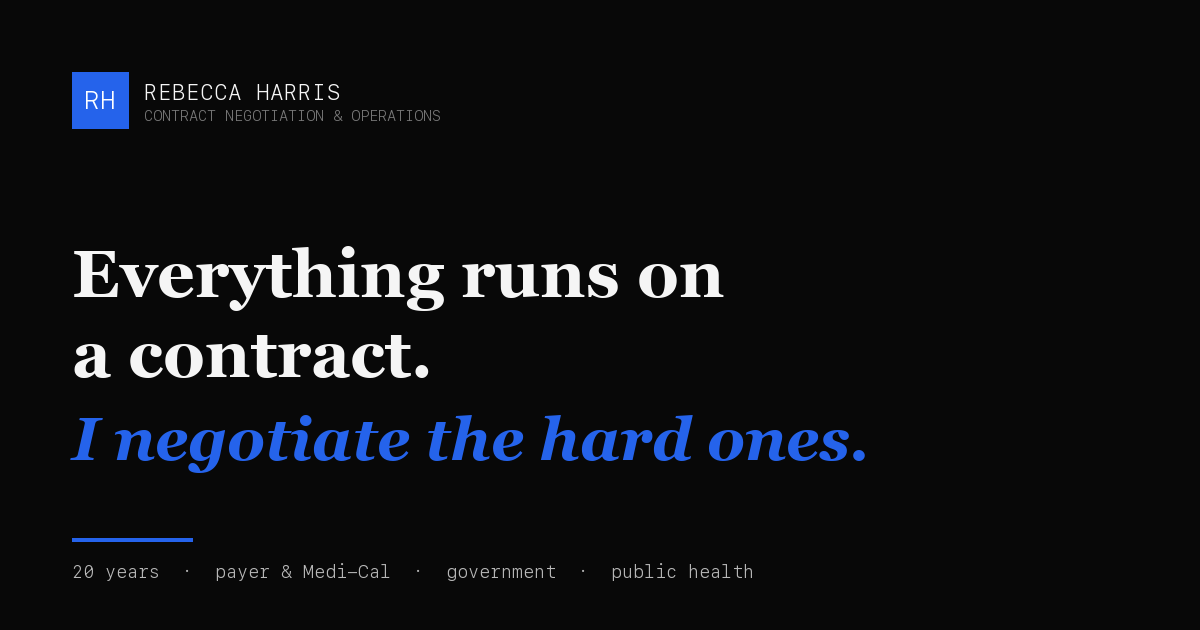
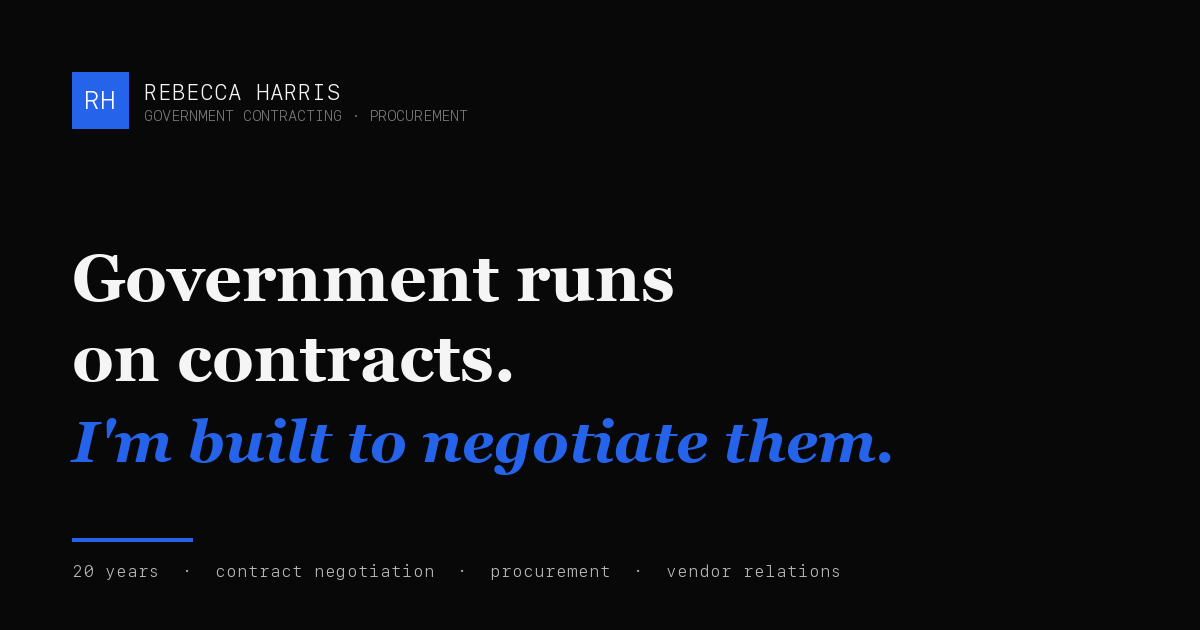
Retune: lead with consulting government contracting + procurement
Foreground Rebecca's go-forward strategy: a consulting government contractor
leveraging 20 years of contract negotiation into government contracting,
procurement, and vendor relations. Hero, title/meta/OG, pillars (Contract
negotiation / Procurement & vendor relations), services (government + procurement
now lead), and who-I-help reordered to put government and vendors first.
Healthcare-payer, credentialing, and public-health kept as supporting depth.

Honest: framed as bringing her contract-negotiation depth INTO government
contracting (not claiming prior government awards); track record unchanged.

diff --git a/index.html b/index.html
@@ -3,11 +3,11 @@
 <head>
 <meta charset="utf-8">
 <meta name="viewport" content="width=device-width, initial-scale=1, viewport-fit=cover">
-<title>Rebecca Harris — Contract Negotiation &amp; Operations</title>
-<meta name="description" content="Twenty years negotiating and running the contracts and operations that healthcare, government, and public-health programs depend on. Payer &amp; Medi-Cal contracting, government contracting, delegated credentialing, and public-health logistics.">
+<title>Rebecca Harris — Government Contracting, Procurement &amp; Negotiation</title>
+<meta name="description" content="A consulting government contractor built on twenty years of contract negotiation. Government contracting, procurement and vendor negotiation, healthcare-payer and Medi-Cal contracting, delegated credentialing, and public-health operations.">
 <meta name="author" content="Rebecca Harris">
-<meta property="og:title" content="Rebecca Harris — Contract Negotiation &amp; Operations">
-<meta property="og:description" content="Everything runs on a contract. Twenty years negotiating the hard ones — across healthcare payers, government, and public-health programs.">
+<meta property="og:title" content="Rebecca Harris — Government Contracting, Procurement &amp; Negotiation">
+<meta property="og:description" content="Government runs on contracts. Twenty years of contract negotiation, now at the service of government contracting, procurement, and vendor relations.">
 <meta property="og:type" content="website">
 <meta property="og:url" content="https://rebeccaharrisadvisory.com/">
 <meta property="og:site_name" content="Rebecca Harris">
@@ -15,10 +15,10 @@
 <meta property="og:image:type" content="image/png">
 <meta property="og:image:width" content="1200">
 <meta property="og:image:height" content="630">
-<meta property="og:image:alt" content="Rebecca Harris — Contract Negotiation &amp; Operations">
+<meta property="og:image:alt" content="Rebecca Harris — Government Contracting, Procurement &amp; Negotiation">
 <meta name="twitter:card" content="summary_large_image">
-<meta name="twitter:title" content="Rebecca Harris — Contract Negotiation &amp; Operations">
-<meta name="twitter:description" content="Everything runs on a contract. Twenty years negotiating the hard ones.">
+<meta name="twitter:title" content="Rebecca Harris — Government Contracting, Procurement &amp; Negotiation">
+<meta name="twitter:description" content="Government runs on contracts. Twenty years of contract negotiation, now for government contracting and procurement.">
 <meta name="twitter:image" content="https://rebeccaharrisadvisory.com/img/og.png">
 <link rel="canonical" href="https://rebeccaharrisadvisory.com/">
 <link rel="icon" type="image/svg+xml" href="/img/favicon.svg">
@@ -27,7 +27,7 @@
 <link rel="preconnect" href="https://fonts.gstatic.com" crossorigin>
 <link href="https://fonts.googleapis.com/css2?family=Fraunces:ital,opsz,wght@0,9..144,600;0,9..144,800;0,9..144,900;1,9..144,700;1,9..144,800&family=IBM+Plex+Mono:wght@500;700&family=IBM+Plex+Sans:wght@400;500;600&display=swap" rel="stylesheet">
 <script type="application/ld+json">
-{"@context":"https://schema.org","@type":"ProfessionalService","name":"Rebecca Harris","description":"Contract negotiation and operations advisor. Twenty years negotiating and running the contracts and operations behind healthcare, government, and public-health programs.","areaServed":["California","United States"],"founder":{"@type":"Person","name":"Rebecca Harris","jobTitle":"Contract Negotiation & Operations Advisor"},"knowsAbout":["Contract negotiation","Government contracting","Healthcare payer contracting","Medi-Cal","Delegated credentialing","NCQA","URAC","Provider network development","Public health logistics","Medical supply distribution"],"url":"https://rebeccaharrisadvisory.com/"}
+{"@context":"https://schema.org","@type":"ProfessionalService","name":"Rebecca Harris","description":"Contract negotiation and operations advisor. Twenty years negotiating and running the contracts and operations behind healthcare, government, and public-health programs.","areaServed":["California","United States"],"founder":{"@type":"Person","name":"Rebecca Harris","jobTitle":"Government Contracting, Procurement & Negotiation Advisor"},"knowsAbout":["Government contracting","Procurement","Vendor contract negotiation","Contract negotiation","Healthcare payer contracting","Medi-Cal","Delegated credentialing","NCQA","URAC","Provider network development","Public health operations"],"url":"https://rebeccaharrisadvisory.com/"}
 </script>
 <style>
 /* ===== HumanData Design System v4 — tokens (humandata.id/ds) ===== */
@@ -1633,13 +1633,12 @@ svg[data-pos="solo-c"] .vg-a,svg[data-pos="solo-c"] .vg-b{opacity:0;transform:sc
     <div class="hero-grid">
       <div>
         <span class="label-accent hero-live rh-eyebrow">
-          <span class="live-dot"></span>&nbsp;Contract negotiation &amp; operations &middot; 20 years
+          <span class="live-dot"></span>&nbsp;Consulting government contractor &middot; contract negotiation &middot; 20 years
         </span>
-        <h1>Everything runs on a contract. <em>I negotiate the hard ones.</em></h1>
+        <h1>Government runs on contracts. <em>I&rsquo;m built to negotiate them.</em></h1>
         <p class="hero-sub">
-          Twenty years building, negotiating, and running the agreements and operations behind
-          healthcare networks, Medi-Cal, and public-health programs &mdash; now across government
-          and payer contracting.
+          Twenty years negotiating and managing complex contracts and provider networks &mdash; now
+          bringing that to government contracting, procurement, and vendor negotiation.
         </p>
         <div class="sect-cta" style="margin-top:var(--sp8);justify-content:flex-start;">
           <a class="btn btn-solid btn-lg" href="#contact">Book a working session &rarr;</a>
@@ -1649,9 +1648,9 @@ svg[data-pos="solo-c"] .vg-a,svg[data-pos="solo-c"] .vg-b{opacity:0;transform:sc
       <div style="padding-top:var(--sp6);">
         <p style="color:var(--t2);line-height:var(--lh-relaxed);margin:0;">
           I&rsquo;m Rebecca Harris. For two decades I&rsquo;ve negotiated and managed the contracts
-          that complex organizations depend on &mdash; and run the operations that make those
-          agreements real. I built that depth in healthcare and behavioral health; the skill itself
-          goes wherever there&rsquo;s a hard agreement to get right.
+          that complex organizations depend on. I built that depth in healthcare and behavioral
+          health &mdash; and I&rsquo;m bringing it to government contracting and procurement, where
+          the whole system runs on agreements someone has to negotiate, hold, and make deliver.
         </p>
       </div>
     </div>
@@ -1687,11 +1686,11 @@ svg[data-pos="solo-c"] .vg-a,svg[data-pos="solo-c"] .vg-b{opacity:0;transform:sc
       </div>
       <div class="pillar">
         <span class="label-accent">Pillar two</span>
-        <h3>Operations &amp; logistics</h3>
+        <h3>Procurement &amp; vendor relations</h3>
         <p>
-          The part most people skip: making the agreement real. Standing up and running provider
-          networks, credentialing, Medi-Cal enrollment, and public-health operations &mdash;
-          medical supplies, PPE, blood drives, and community health events.
+          The agencies-and-vendors side: negotiating vendor contracts, working the procurement
+          process, and building the supplier relationships an award depends on &mdash; then running
+          the operations that make it actually deliver.
         </p>
       </div>
     </div>
@@ -1753,40 +1752,40 @@ svg[data-pos="solo-c"] .vg-a,svg[data-pos="solo-c"] .vg-b{opacity:0;transform:sc
     </div>
     <div class="svc-grid">
       <div class="svc">
-        <span class="svc-n">01 &middot; Contracts</span>
+        <span class="svc-n">01 &middot; Government</span>
+        <h3>Government contracting</h3>
+        <p>Solicitation and RFP response, SME support, and compliance &mdash; for agencies and for
+        the firms bidding to contract with them.</p>
+      </div>
+      <div class="svc">
+        <span class="svc-n">02 &middot; Procurement</span>
+        <h3>Procurement &amp; vendor negotiation</h3>
+        <p>Negotiating vendor contracts, working the procurement process, and the supplier terms
+        and relationships an award depends on.</p>
+      </div>
+      <div class="svc">
+        <span class="svc-n">03 &middot; Contracts</span>
         <h3>Contract negotiation &amp; strategy</h3>
-        <p>Payer, vendor, government, and inter-agency agreements &mdash; negotiated and drafted so
-        the terms, scope, and risk still hold when the law moves.</p>
+        <p>Payer, vendor, and inter-agency agreements &mdash; negotiated and drafted so the terms,
+        scope, and risk still hold when the law moves.</p>
       </div>
       <div class="svc">
-        <span class="svc-n">02 &middot; Government</span>
-        <h3>Government &amp; public-sector contracting</h3>
-        <p>Solicitation and RFP response, SME support, and compliance for agencies and the firms
-        that contract with them.</p>
-      </div>
-      <div class="svc">
-        <span class="svc-n">03 &middot; Payers</span>
+        <span class="svc-n">04 &middot; Payers</span>
         <h3>Healthcare-payer &amp; Medi-Cal contracting</h3>
         <p>Participation agreements, reimbursement review, network adequacy, and Medi-Cal plan
         enrollment &mdash; the depth behind 300+ hospitals contracted.</p>
       </div>
       <div class="svc">
-        <span class="svc-n">04 &middot; Credentialing</span>
+        <span class="svc-n">05 &middot; Credentialing</span>
         <h3>Network build &amp; delegated credentialing</h3>
         <p>Recruitment and participation agreements, NCQA/URAC readiness, delegation-oversight and
         facility file audits.</p>
       </div>
       <div class="svc">
-        <span class="svc-n">05 &middot; Public health</span>
+        <span class="svc-n">06 &middot; Public health</span>
         <h3>Public-health operations &amp; logistics</h3>
         <p>Medical-supply and PPE sourcing and distribution, blood drives and community health
         events, and the operations that keep a program running.</p>
-      </div>
-      <div class="svc">
-        <span class="svc-n">06 &middot; Leadership</span>
-        <h3>Fractional / interim leadership</h3>
-        <p>A seasoned contracting-and-operations operator in the seat through a CalAIM, BHSA, or
-        Medi-Cal transition &mdash; or to cover a vacancy.</p>
       </div>
     </div>
   </section>
@@ -1799,10 +1798,10 @@ svg[data-pos="solo-c"] .vg-a,svg[data-pos="solo-c"] .vg-b{opacity:0;transform:sc
     </div>
     <div class="helps">
       <div class="help"><div class="help-k">Government</div><div class="help-v">Agencies &amp; counties</div></div>
+      <div class="help"><div class="help-k">Vendors</div><div class="help-v">Contractors &amp; suppliers bidding to them</div></div>
       <div class="help"><div class="help-k">Payers</div><div class="help-v">Health plans &amp; Medi-Cal</div></div>
       <div class="help"><div class="help-k">Providers</div><div class="help-v">Groups, IPAs, MSOs &amp; CVOs</div></div>
       <div class="help"><div class="help-k">Public health</div><div class="help-v">Programs &amp; nonprofits</div></div>
-      <div class="help"><div class="help-k">Suppliers</div><div class="help-v">Vendors to the above</div></div>
     </div>
   </section>
 
